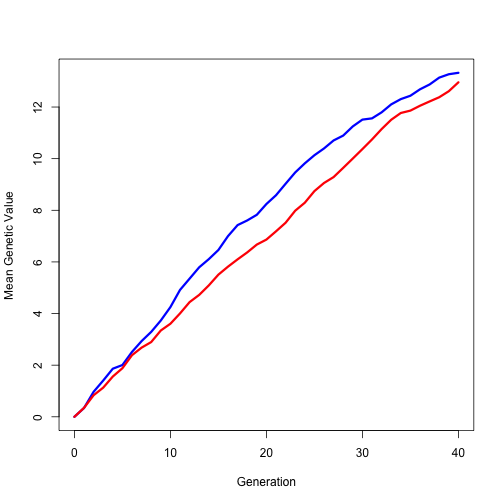
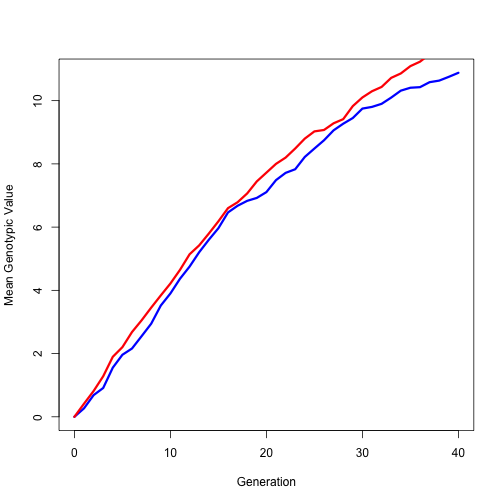
updated simulation

diff --git a/2024-agro931/week13/w13_c1.html b/2024-agro931/week13/w13_c1.html
@@ -171,7 +171,7 @@ ggplot(df, aes(x=s, y=r)) +
 ## `geom_smooth()` using formula = 'y ~ x'
 ```
 
-&lt;img src="w13_c1_files/figure-html/unnamed-chunk-1-1.png" width="80%" style="display: block; margin: auto;" /&gt;
+&lt;img src="w13_c1_files/figure-html/unnamed-chunk-3-1.png" width="80%" style="display: block; margin: auto;" /&gt;
 ]
 
 ---
@@ -212,7 +212,7 @@ ggplot(df, aes(x=s, y=r)) +
 ## `geom_smooth()` using formula = 'y ~ x'
 ```
 
-&lt;img src="w13_c1_files/figure-html/unnamed-chunk-2-1.png" width="80%" style="display: block; margin: auto;" /&gt;
+&lt;img src="w13_c1_files/figure-html/unnamed-chunk-4-1.png" width="80%" style="display: block; margin: auto;" /&gt;
 ]
 
 ---
@@ -265,9 +265,9 @@ They plan to conduct 40 discrete generations of selection.
 --
 ### Assumptions:
 
-1. The quantitative trait, 56-day body weight, is modeled as being controlled by 1,000 genetic loci (or QTLs). 
+1. The quantitative trait, 56-day body weight, is modeled as being controlled by ~100 genetic loci (or QTLs). 
 
-2. These QTL are equally split across 10 chromosomes so that there are 100 QTLs per chromosome. 
+2. These QTL are equally split across 39 chromosomes so that there are about 3 QTLs per chromosome. 
 
 3. `\(h^2=0.5%\)`
 
@@ -303,31 +303,22 @@ They plan to conduct 40 discrete generations of selection.
 
 --
 
-### Creating Founder population
+### Creating founder population
 
 
 ```r
 # install.packages("AlphaSimR")
 library(AlphaSimR)
+founderPop = runMacs(nInd=100, nChr=39, segSites=10000)
+founderPop
 ```
 
 ```
-## Loading required package: R6
-```
-
-```
-## 
-## Attaching package: 'AlphaSimR'
-```
-
-```
-## The following object is masked _by_ '.GlobalEnv':
-## 
-##     bv
-```
-
-```r
-founderPop = runMacs(nInd=100, nChr=10, segSites=5000)
+## An object of class "MapPop" 
+## Ploidy: 2 
+## Individuals: 100 
+## Chromosomes: 39 
+## Loci: 390000
 ```
 
 
@@ -336,8 +327,8 @@ founderPop = runMacs(nInd=100, nChr=10, segSites=5000)
 
 ### Simulate the phenotype
 
-1. The quantitative trait, 56-day body weight, is modeled as being controlled by 1,000 genetic loci (or QTLs). 
-2. These QTL are equally split across 10 chromosomes so that there are 100 QTLs per chromosome. 
+1. The quantitative trait, 56-day body weight, is modeled as being controlled by 100 genetic loci (or QTLs). 
+2. These QTL are equally split across 39 chromosomes so that there are 3 QTLs per chromosome. 
 3. `\(h^2=0.5\)`
 
 --
@@ -348,9 +339,12 @@ founderPop = runMacs(nInd=100, nChr=10, segSites=5000)
 ```r
 SP = SimParam$new(founderPop)
 # The ‘A’ at the end indicates that the trait’s QTL only have additive effects.
-SP$addTraitA(nQtlPerChr=100) 
-# Systematic assignment is used to ensure that there is always equal numbers of males and females.
+SP$addTraitA(nQtlPerChr=3) 
+
+# Systematic assignment is used to ensure that there is always equal numbers
+# of males and females.
 SP$setSexes("yes_sys")
+
 SP$setVarE(h2=0.5)
 ```
 
@@ -358,7 +352,7 @@ SP$setVarE(h2=0.5)
 ---
 # Conduct the selection
 
-### Modeling the Breeding Program
+### Simulating the breeding program
 
 - This step will take the haplotypes in `founderPop` and the information in `SP` to create an object of `Pop-class`.
 
@@ -384,12 +378,49 @@ for(generation in 1:40){
 
 ```r
 plot(0:40, genMean1, type="l", col="blue", lwd=3, 
-     xlab="Generation", ylab="Mean Genetic Value")
+     xlab="Generation", ylab="Mean Genotypic Value")
 lines(0:40, genMean2, col="red", lwd=3)
 ```
 
-&lt;img src="w13_c1_files/figure-html/unnamed-chunk-6-1.png" width="60%" style="display: block; margin: auto;" /&gt;
+&lt;img src="w13_c1_files/figure-html/unnamed-chunk-8-1.png" width="60%" style="display: block; margin: auto;" /&gt;
 
+---
+# Conduct the selection
+
+### Compare different selection schemes
+
+
+```r
+set.seed(12345)
+pop1 = newPop(founderPop)
+pop2 = newPop(founderPop)
+pop3 = newPop(founderPop)
+# compute the mean in the current generation
+genMean1 = meanG(pop1)
+genMean2 = meanG(pop2)
+genMean3 = meanG(pop3)
+for(generation in 1:40){
+  pop1 = selectCross(pop=pop1, nFemale=30, nMale=30, use="bv", nCrosses=100)
+  pop2 = selectCross(pop=pop2, nFemale=30, nMale=30, use="pheno", nCrosses=100)
+  pop3 = selectCross(pop=pop3, nFemale=30, nMale=30, use="rand", nCrosses=100)
+  genMean1 = c(genMean1, meanG(pop1))
+  genMean2 = c(genMean2, meanG(pop2))
+  genMean3 = c(genMean3, meanG(pop3))
+}
+```
+
+---
+# Examining the Results
+
+
+```r
+plot(0:40, genMean1, type="l", col="blue", lwd=3, 
+     xlab="Generation", ylab="Mean Genotypic Value")
+lines(0:40, genMean2, col="red", lwd=3)
+lines(0:40, genMean3, col="green", lwd=3)
+```
+
+&lt;img src="w13_c1_files/figure-html/unnamed-chunk-10-1.png" width="60%" style="display: block; margin: auto;" /&gt;
 
 
     </textarea>
